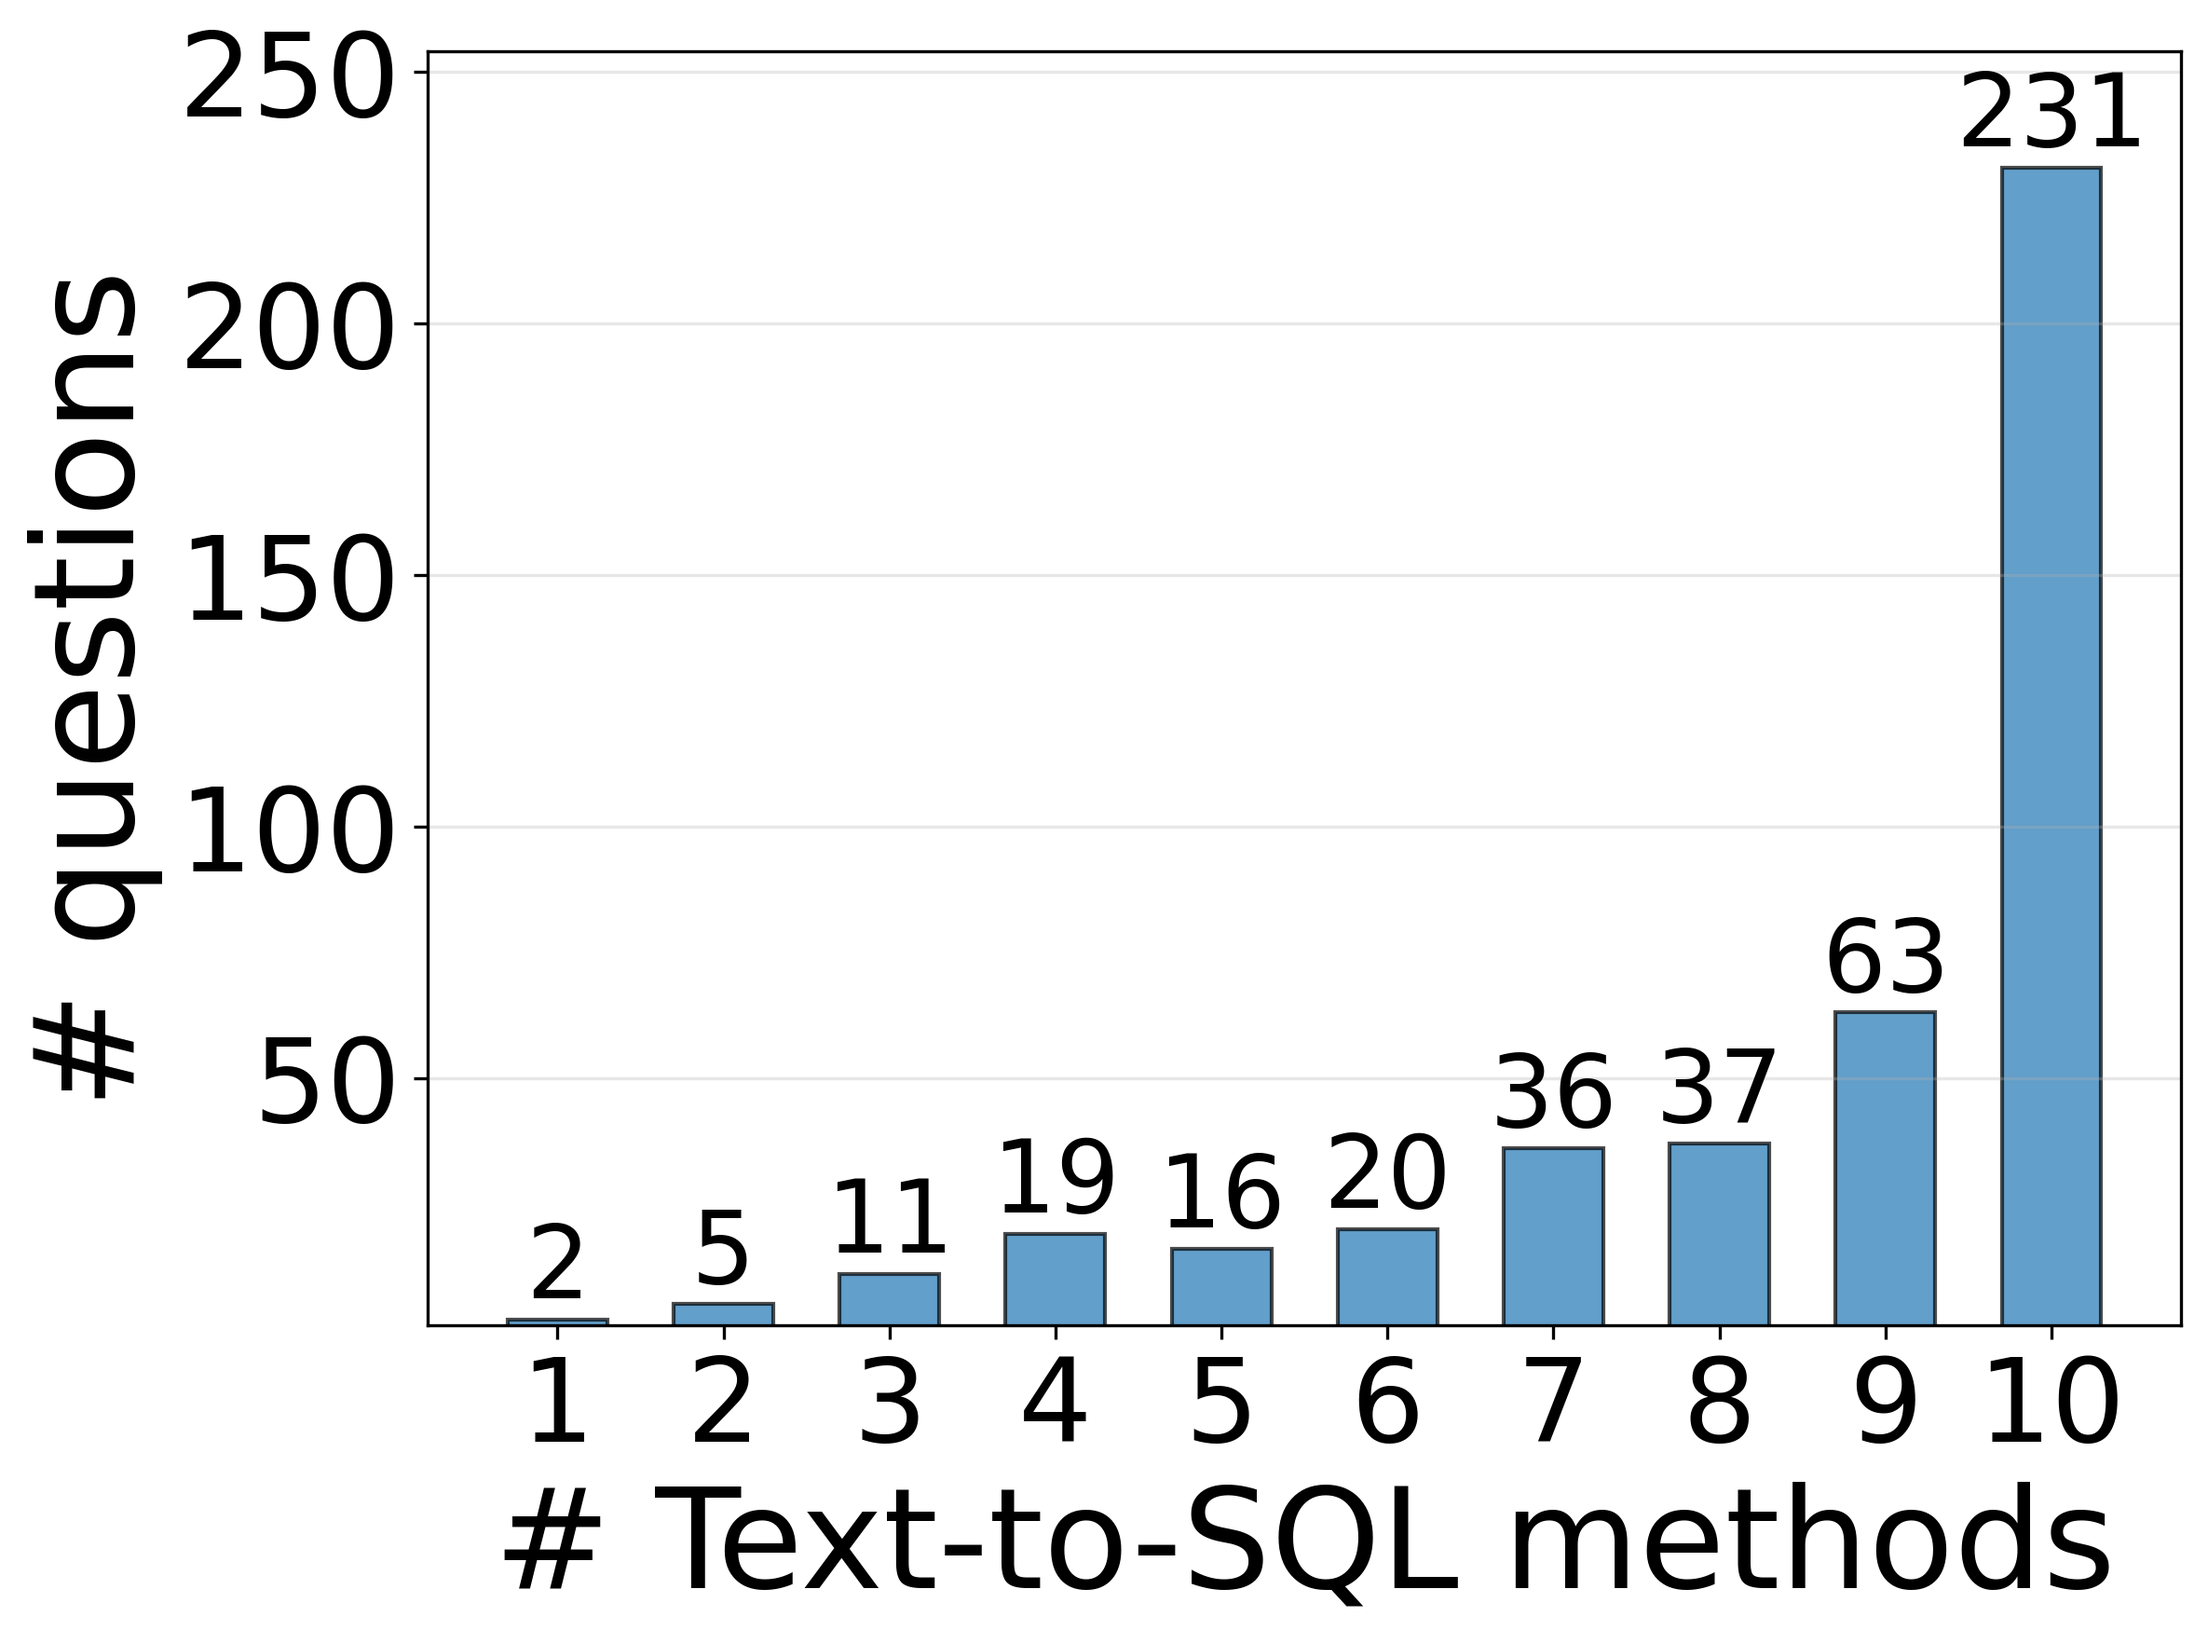
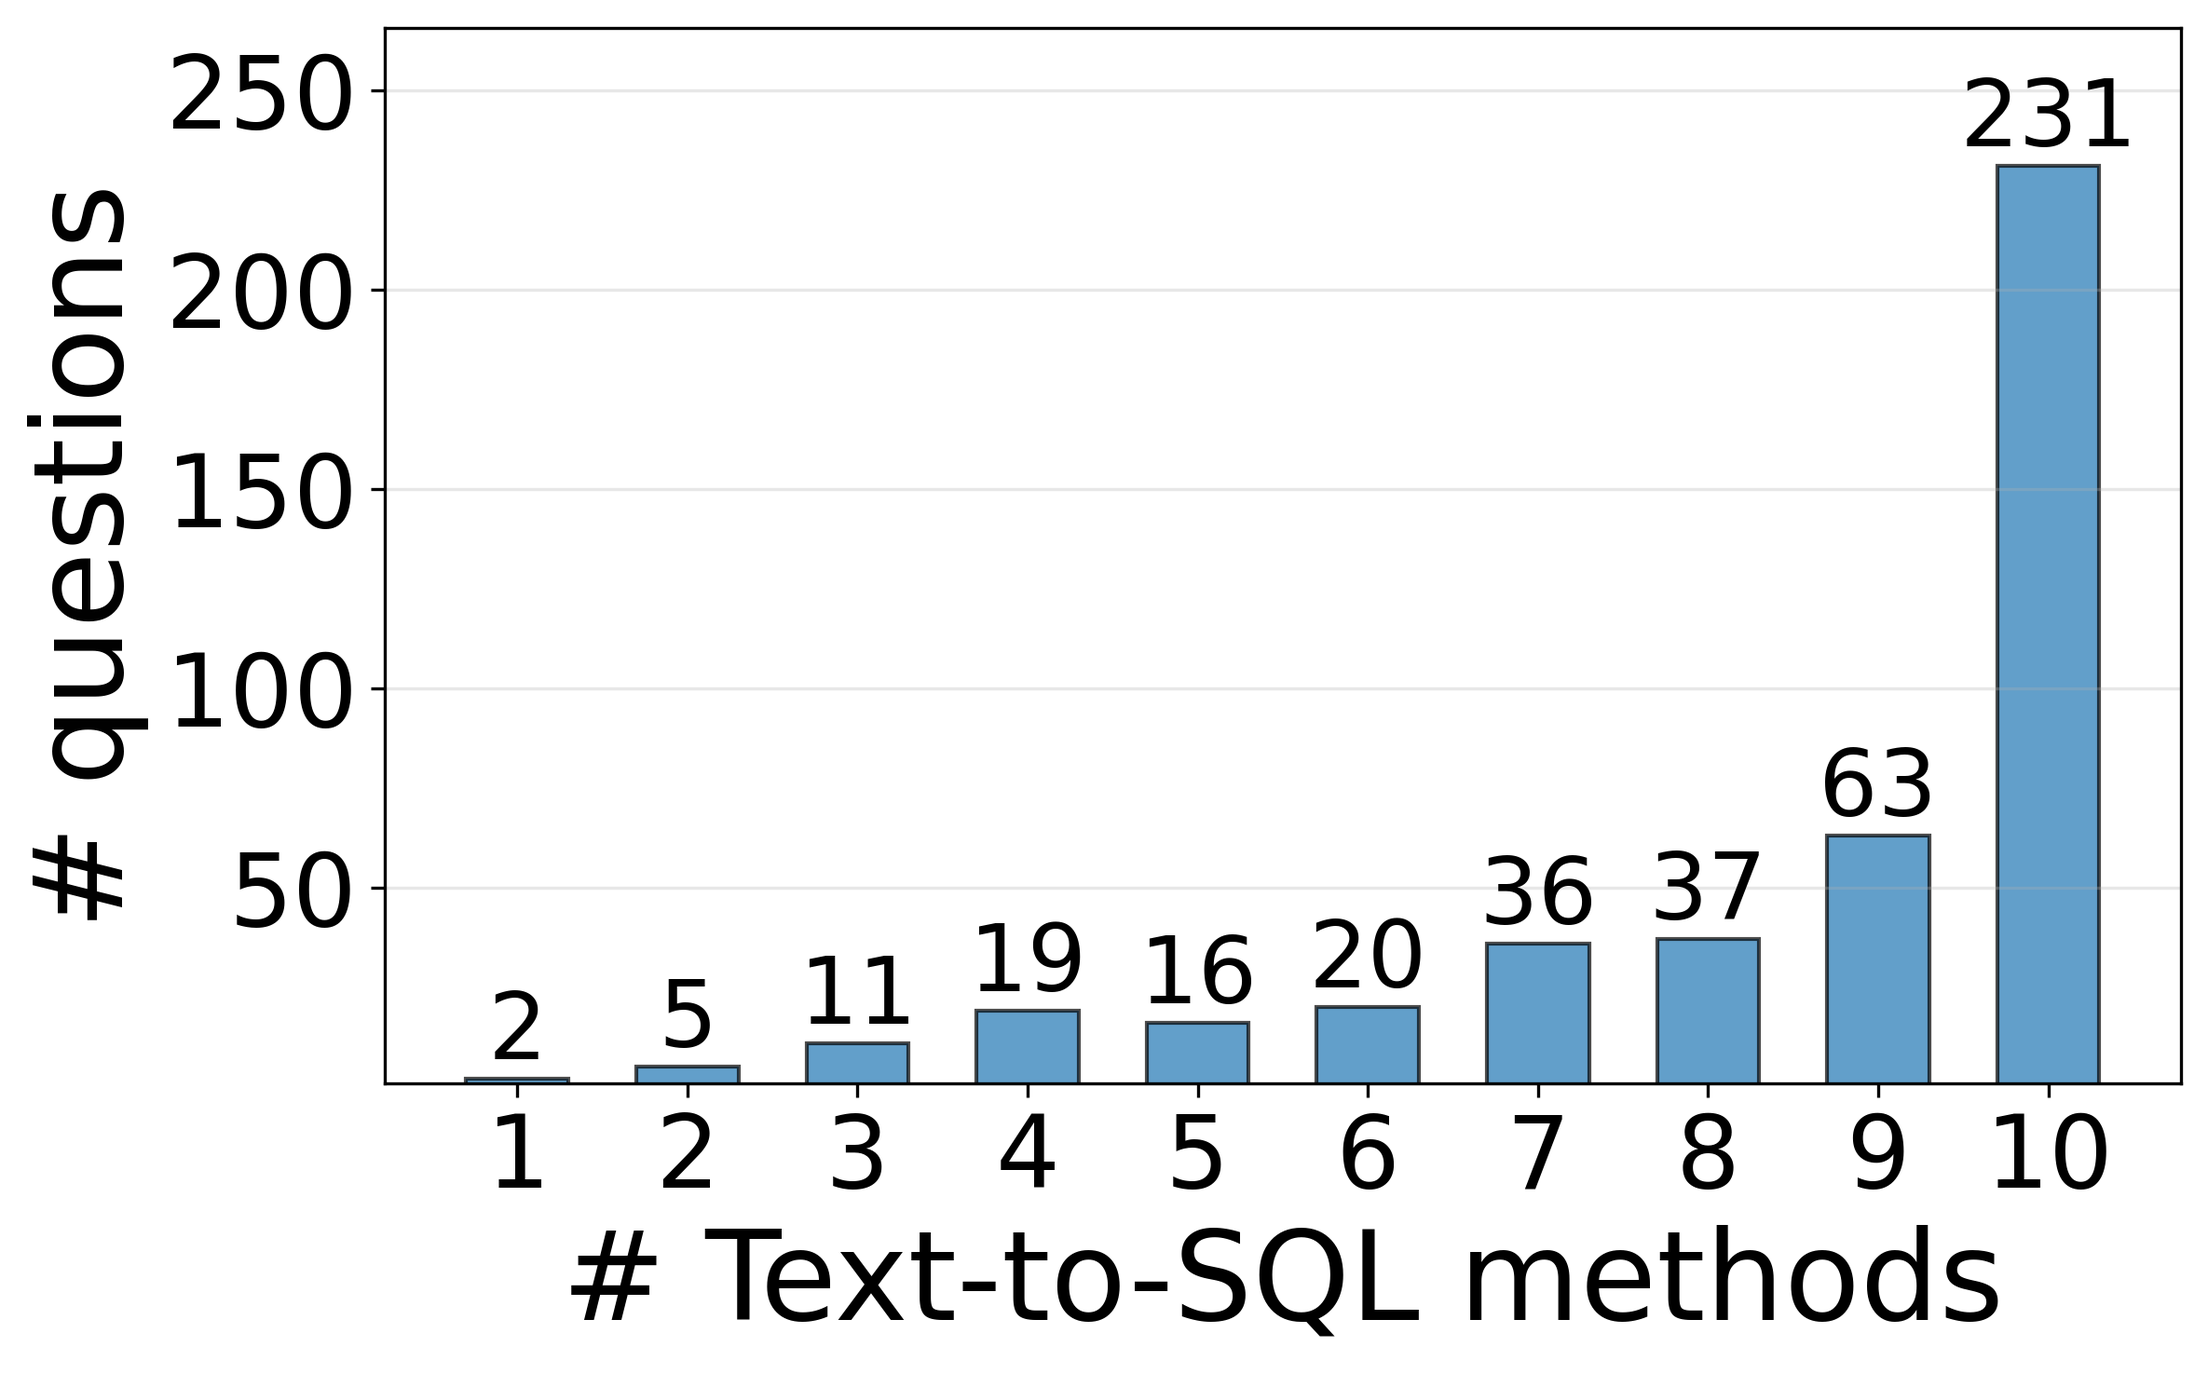
fix

diff --git a/evaluation/analyze_incorrectness.py b/evaluation/analyze_incorrectness.py
@@ -99,31 +99,36 @@ def create_histogram(incorrectness_data, output_path=None):
         values, frequencies = np.unique(counts, return_counts=True)
 
         # Make the plot taller and wider
-        plt.figure(figsize=(8, 6))  # Increased height from 8 to 14
+        plt.figure(figsize=(8, 5))  # Increased height from 8 to 14
 
         # Make bars thinner by setting width
         bar_width = 0.6  # Default is 0.8, so 0.4 is thinner
         bars = plt.bar(values, frequencies, width=bar_width, alpha=0.7, edgecolor='black')
 
         # Even larger fonts for labels
-        plt.xlabel('# Text-to-SQL methods', fontsize=36)
-        plt.ylabel('# questions', fontsize=36)
+        plt.xlabel('# Text-to-SQL methods', fontsize=32)
+        plt.ylabel('# questions', fontsize=32)
 
         #plt.yscale('log')  # Use log scale for y-axis
         # Set the y-axis range to be larger (e.g., from 0.8 to 10x the max frequency)
         min_y = 0.8
-        max_y = max(frequencies) * 1.1 if len(frequencies) > 0 else 10
+        max_y = max(frequencies) * 1.15 if len(frequencies) > 0 else 10
         plt.ylim(min_y, max_y)
         plt.grid(True, axis="y", alpha=0.3, which='both')
-        plt.xticks(values, fontsize=30)   # One tick per integer
-        plt.yticks(fontsize=30)
+        plt.xticks(values, fontsize=26)   # One tick per integer
+        # Set y-ticks every 50 (e.g., 50, 100, 150, ...) but do not include 0
+        if max_y >= 50:
+            yticks = np.arange(50, max_y + 1, 50)
+            plt.yticks(yticks, fontsize=26)
+        else:
+            plt.yticks(fontsize=26)
 
         # Add value labels above each bar (show only if freq > 0)
         for bar, freq in zip(bars, frequencies):
             height = bar.get_height()
             if freq > 0:
                 plt.text(bar.get_x() + bar.get_width()/2, height,
-                         f"{int(freq)}", ha='center', va='bottom', fontsize=26)
+                         f"{int(freq)}", ha='center', va='bottom', fontsize=24)
 
         plt.tight_layout()
 
